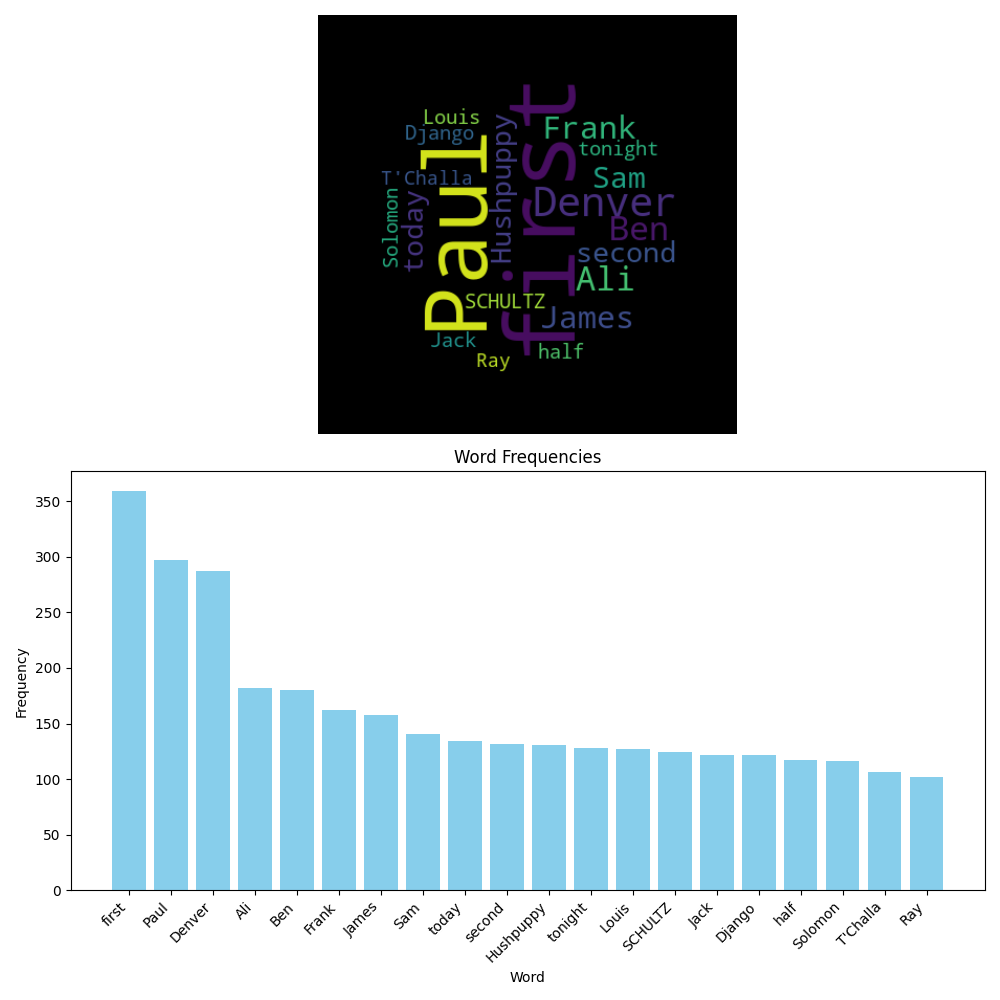
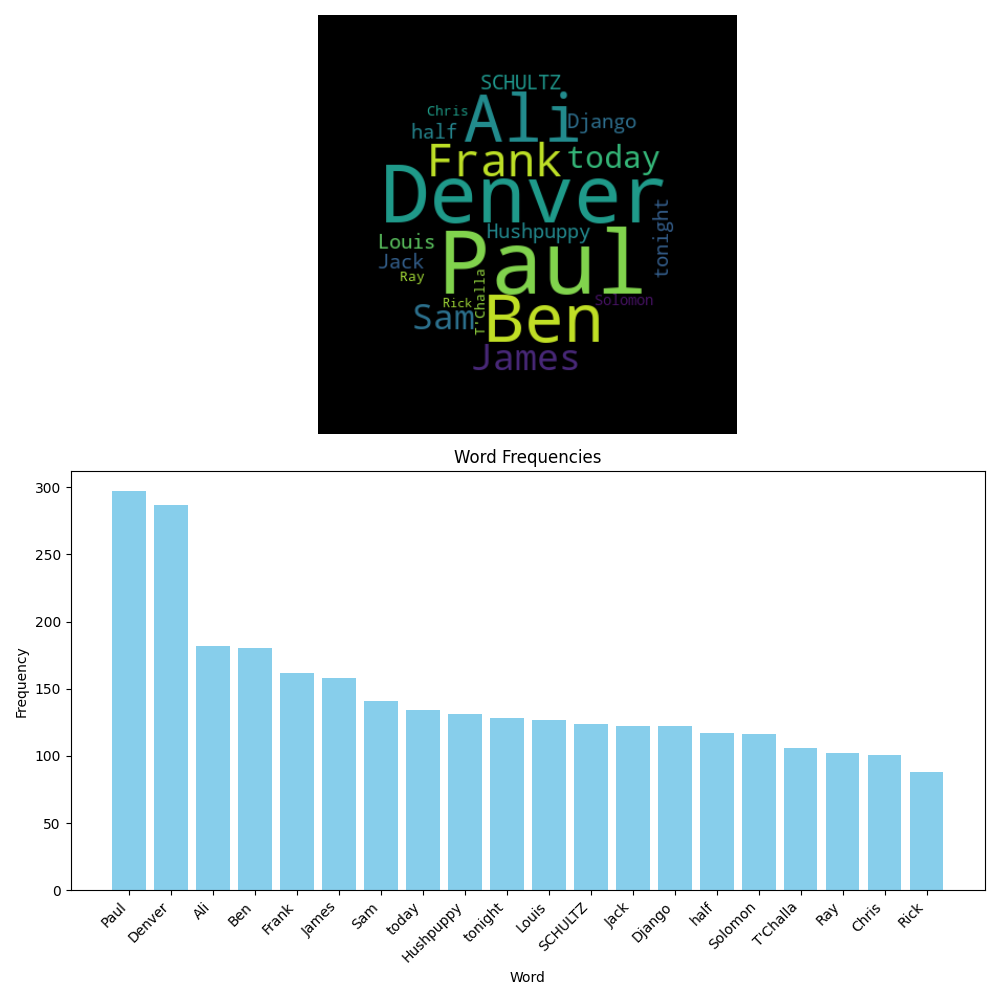
filter named entities

diff --git a/analytics/named_entities.py b/analytics/named_entities.py
@@ -11,7 +11,7 @@ for race, d in data.items():
     for entity, count in d:
         e = entity.lower()
         if len(freq_count.keys()) > 19: break
-        if e=="" or e in ("one","two","three","four","five"): continue
+        if e=="" or e in ("one","two","three","four","five","first","second"): continue
         freq_count[entity] = count
         
     create_cloud(freq_count, f"data/named_entities/{race}")
